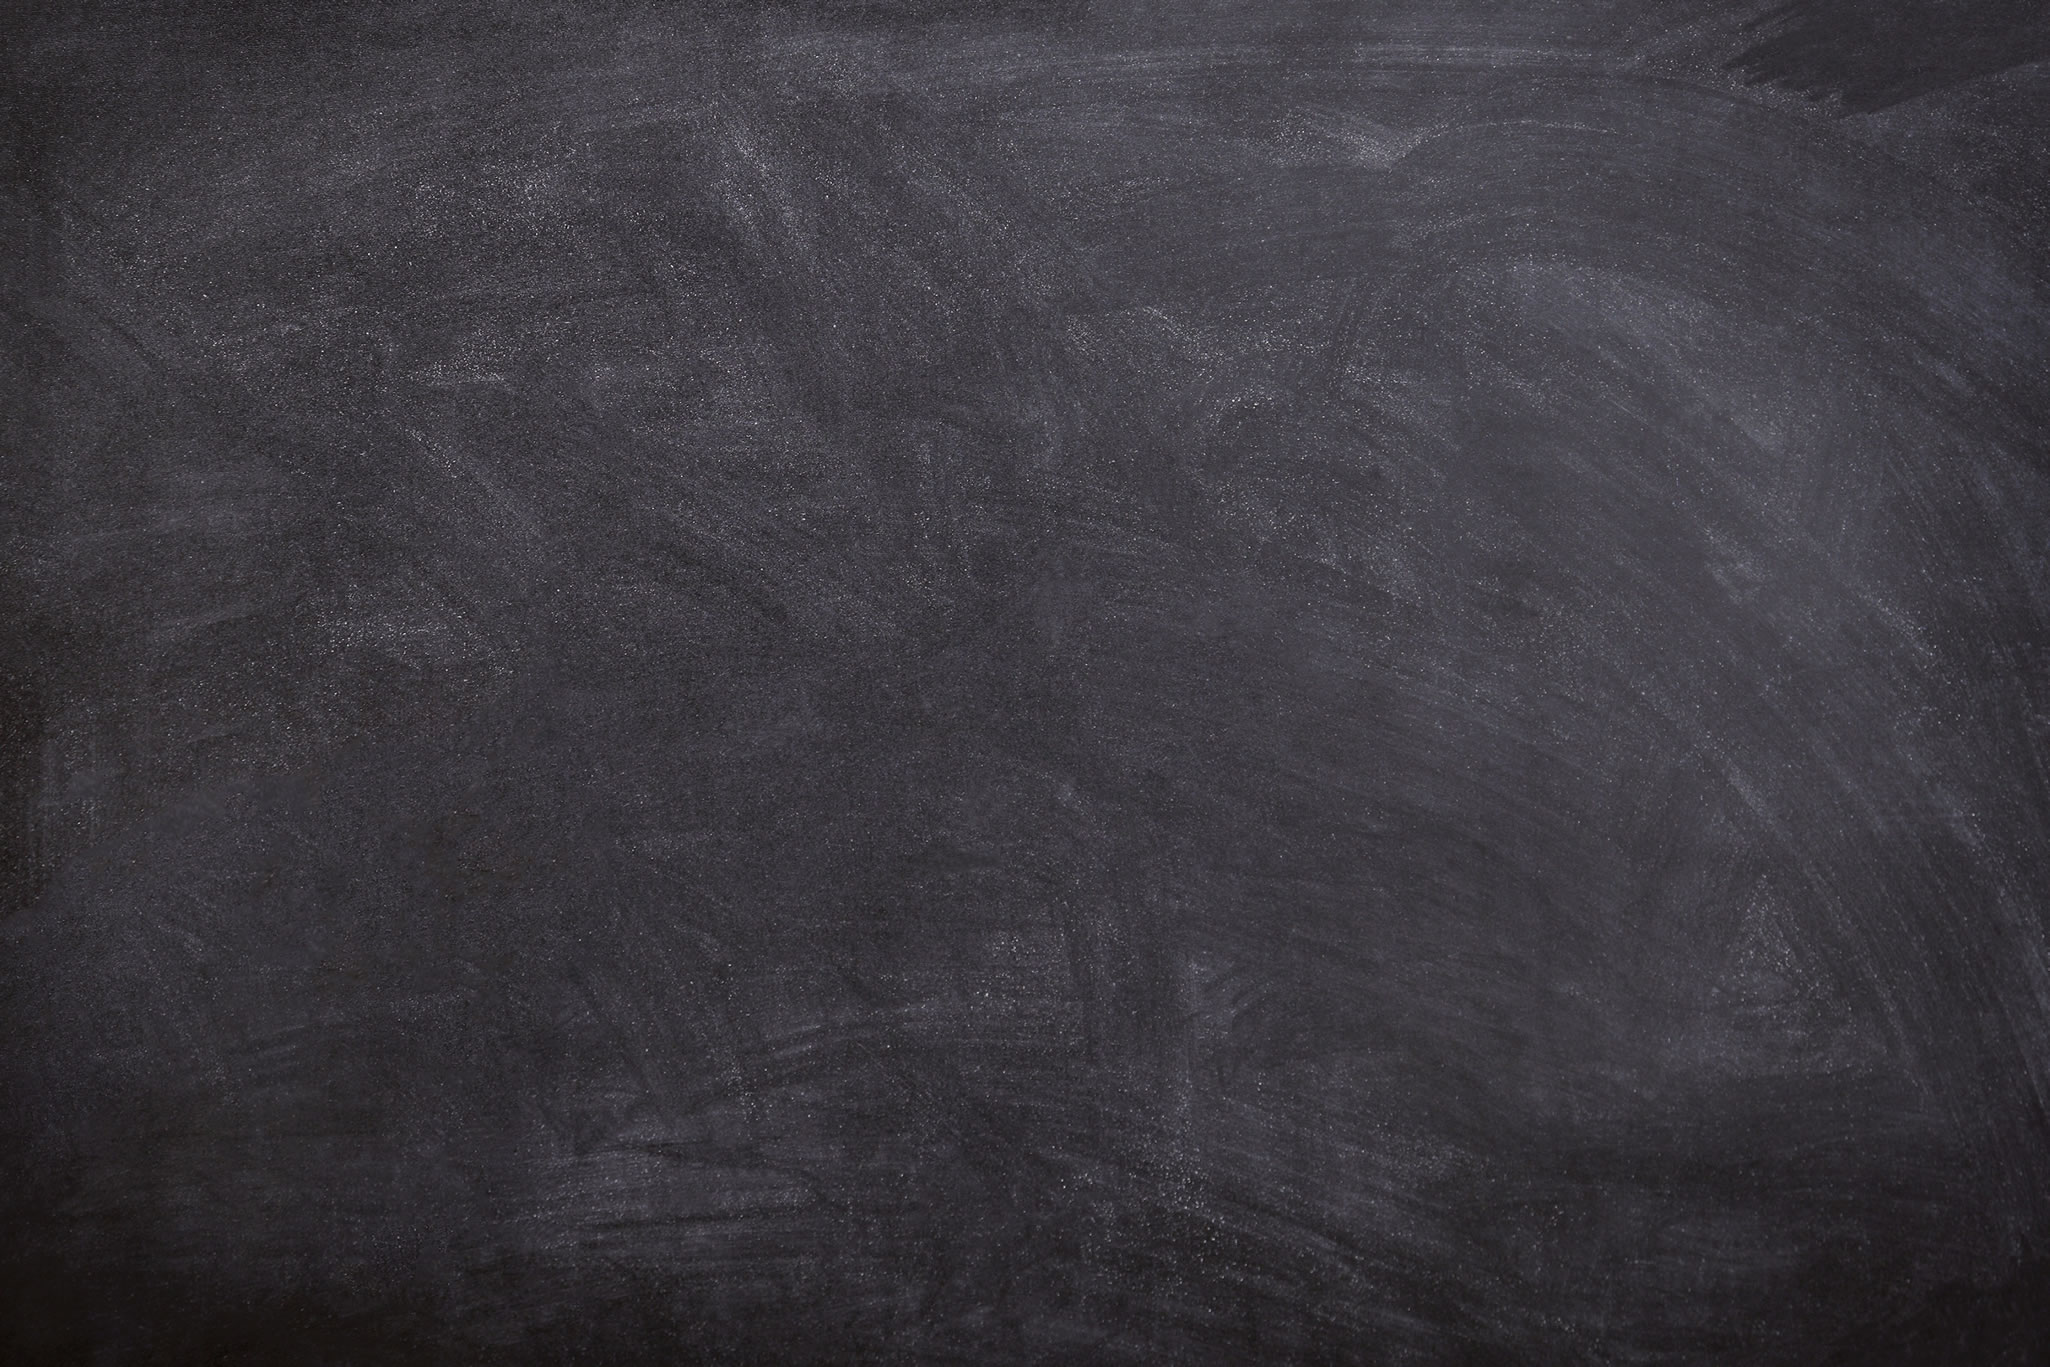
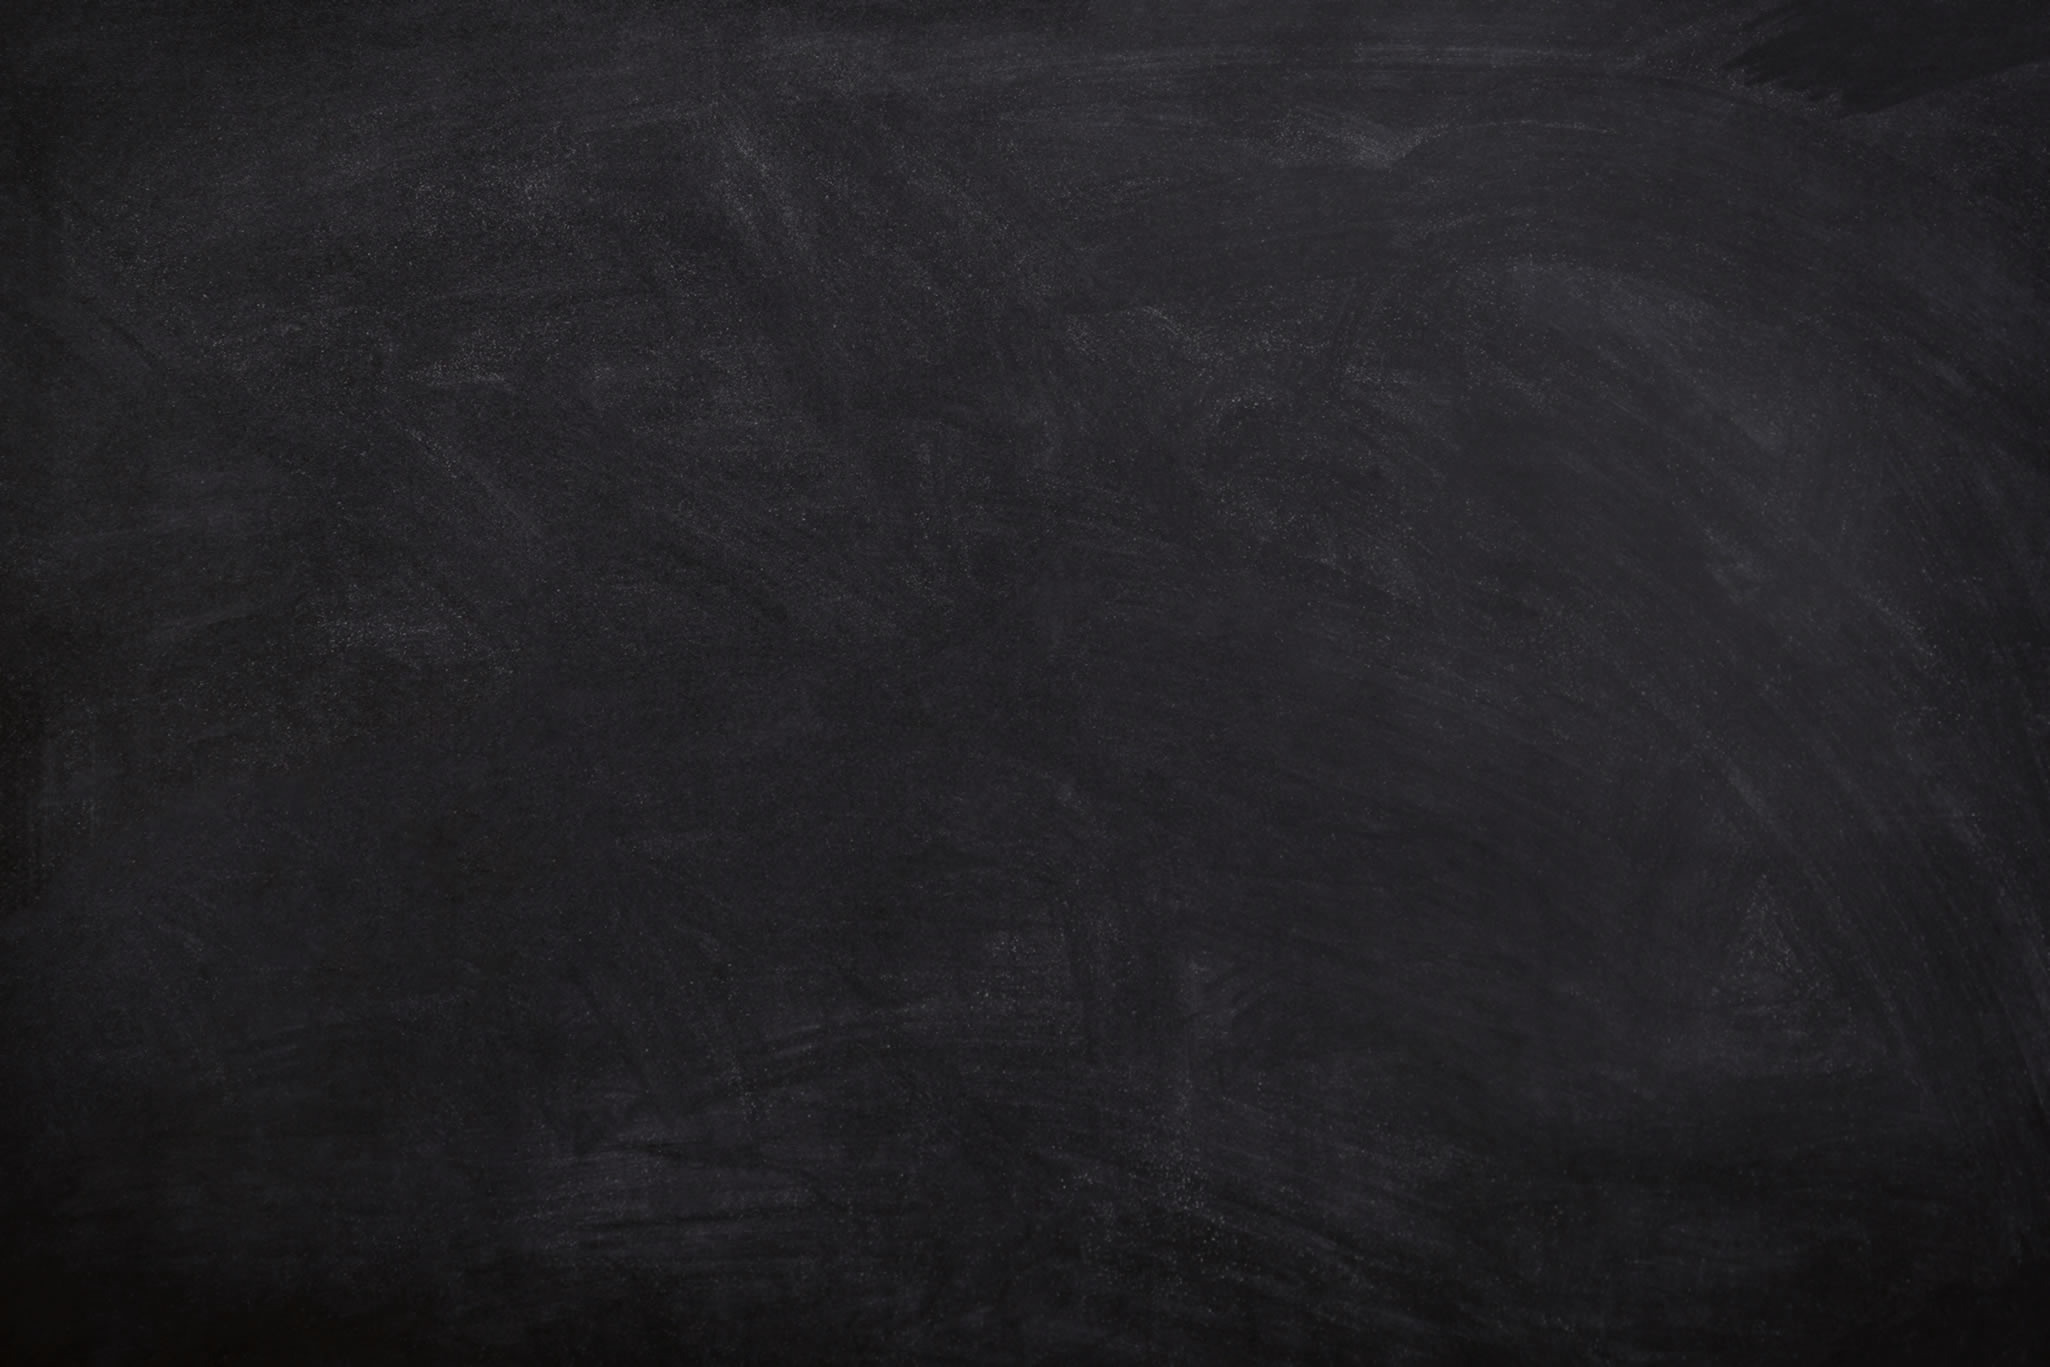
updated contact form

diff --git a/templates/index.html b/templates/index.html
@@ -403,6 +403,22 @@
 								<header>
 									<h2>Get in Touch</h2>
 								</header>
+								<p>
+									We'd love to hear from you with any questions or suggestions you may have. Here's how you can reach us.
+								</p>
+								<ul class="fa-ul">
+									<li>
+										<span class="fa-li"><i class="fas fa-fw fa-envelope"></i></span><a href="mailto:enquiries@example.com">enquiries@example.com</a>
+									</li>
+									<li>
+										<span class="fa-li"><i class="fas fa-fw fa-mobile-alt"></i></span><a href="tel:0123456789">012 345 6789</a>
+									</li>
+									<li><span class="fa-li"><i class="fas fa-fw fa-building"></i></span>Address Line 1<br />
+										Address Line 2<br />
+										Massachusetts<br />
+										12345 
+									</li>
+								</ul>
 							</article>
 						</div>
 						<div class="col-xs-12 col-sm-12 col-md-8 col-lg-8">
@@ -442,53 +458,67 @@
 	<script>
 		$(document).ready(function() {
 			$('form').submit(function (e) {
-				var url = "{{ url_for('submitForm') }}"; // send the form data here.
+				var url = "{{ url_for('submitForm') }}"; // url for form submission.
 				$.ajax({
-					type: "POST",
+					type: "POST", 
 					url: url,
 					data: $('form').serialize(), // serializes the form's elements.
+					// before sending, disable submit button and clear any existing error messages.
 					beforeSend: function() {
-						$('#submitContactForm').prop('disabled', true);
-						$('#status').addClass('hidden').text('');
-						$('.help-block').text('');
-						$('.form-group').removeClass('has-error');
+						$('#submitContactForm').prop('disabled', true); // disable the submit button.
+						$('#status').addClass('hidden').text(''); // hide the status box.
+						$('.help-block').text(''); // clear all help blocks of text.
+						$('.form-group').removeClass('has-error'); // remove error styles.
 					},
+
+					// if form is valid, display status message, then after 6 seconds, display confirmation.
 					success: function (data) {
+						// display message being sent status.
 						$('#status')
 							.addClass('alert alert-warning')
 							.removeClass('hidden')
 							.html('<i class="fas fa-spinner fa-pulse"></i> Your Message is being sent.');
 
+						// set a 6 second delay, then show success message.
 						setTimeout(function() {
 							$('#status')
 								.addClass('alert-success')
 								.removeClass('alert-warning')
 								.html('<i class="fas fa-check"></i> Your Message sent successfully');
+							
+							// enable submit button.
 							$('#submitContactForm').prop('disabled', false);
-							console.log(data)  // display the returned data in the console.
 						}, 6000);
 					},
+
+					// display any validation errors.
 					error: function(data) {
 						// get error messages.
 						var errors = data.responseJSON.data;
 						
 						// loop through errors and highlight fields.
 						for (var key in errors) {
-							// create names of labels and form control
-							var _label = '#' + key + '-status';
-							var _control = '#' + key;
+							// create names of labels and form control.
+							var _label = '#' + key + '-status'; // error message.
+							var _control = '#' + key; // form control.
 
-							// check 
+							// add error class to form controls parent.
 							$(_control).parent().addClass('has-error');
+
+							// check if error message has a property, and display.
 							if (errors.hasOwnProperty(key)) {
+								// display error message.
 								$(_label).text(errors[key]);
 							}
 						}
 
+						// enable the submit button.
 						$('#submitContactForm').prop('disabled', false);
 					}
 				});
-				e.preventDefault(); // block the traditional submission of the form.
+
+				// block the traditional submission of the form.
+				e.preventDefault();
 			});
 
 			// Inject our CSRF token into our AJAX request.

diff --git a/static/css/theme.css b/static/css/theme.css
@@ -36,6 +36,9 @@ a {
 	transition: all 0.3s ease-out;
 	text-decoration: none;
 }
+a:hover {
+	text-decoration: none;
+}
 p {
 	margin-bottom: 30px;
 }
@@ -76,40 +79,55 @@ p:last-child {
 /* Form Overrides */
 #contact .form-control {
 	background-color: transparent;
-	color: #fff;
+	color: #f3e8e5;
 	padding: 10px;
 	font-size: 18px;
 	line-height: 26px;
 	height: initial;
-	border: 1px dotted #fff;
+	border: 2px dotted #f3e8e5;
 }
 #contact .form-control:focus {
-	box-shadow: inset 0 1px 1px rgba(0, 0, 0, .075), 0 0 8px rgba(255, 255, 255, .6);
-	border: 1px solid #fff;
+	box-shadow: inset 0 1px 1px rgba(0, 0, 0, .075), 0 0 15px rgba(243, 232, 229, .6);
+	border: 2px solid #f3e8e5;
 }
 #contact .has-error .form-control {
-	border: 1px dotted #cb2027;
+	border: 2px dotted #db605d;
 }
 #contact .has-error .form-control:focus {
-	box-shadow: inset 0 1px 1px rgba(0, 0, 0, .075), 0 0 8px rgba(203, 32, 39, .6);
-	border: 1px solid #cb2027;
+	box-shadow: inset 0 1px 1px rgba(0, 0, 0, .075), 0 0 15px rgba(219, 96, 93, .6);
+	border: 2px solid #db605d;
 }
 #contact .has-error .control-label, #contact .has-error .help-block {
-	color: #cb2027;
+	color: #db605d;
+}
+#contact .btn-default {
+	background-color: transparent;
+	border: 2px dotted #f3e8e5;
+	color: #fff;
+	transition: 0.3s ease-in all;
+}
+#contact .btn-default:hover {
+	background-color: #f3e8e5;
+	color: #333;
+	transition: 0.3s ease-in all;
 }
 
 /* Footer */
-footer a { color: #777; }
+footer {
+	color: #f3e8e5;
+}
+footer a { 
+	color: #f3e8e5;
+}
+footer a:hover {
+	color: #58bb89;
+}
 .copyright {
 	padding: 20px 0;
-	color: #fff;
 	font-size: 14px;
 	font-weight: bold;
-	border-top: 1px dotted #fff;
+	border-top: 1px dotted #f3e8e5;
 	margin-top: 75px;
-}
-.copyright a {
-	color: #fff;
 }
 .copyright ul {
 	margin-bottom: 0;
@@ -120,6 +138,12 @@ footer a { color: #777; }
 }
 .copyright .list-inline li:last-child:after {
 	content: '';
+}
+.fa-ul > li {
+	margin-bottom: 20px; 
+}
+.fa-li {
+	color: #f8dd5d;
 }
 
 /* Chart Overrides */
@@ -143,9 +167,8 @@ footer a { color: #777; }
 /* Row Backgrounds */
 .header-bkg {
 	background-image: url(/static/images/massachusetts-state-house-bkg.jpg);
-	background-position: bottom center;
+	background-position: center center;
 	background-attachment: fixed;
-	background-size: cover;
 	background-repeat: no-repeat;
 	padding-top: 150px;
 	padding-bottom: 100px;
@@ -163,12 +186,12 @@ footer a { color: #777; }
 	background-image: url(/static/images/chalkboard-bkg.jpg);
 	background-position: center center;
 	background-attachment: scroll;
+	background-size: cover;
 	background-repeat: no-repeat;
 	padding-top: 75px;
-	color: #fff;
 }
 .chalkboard-bkg h2:after {
-	border-top: 1px dotted #fff;
+	border-top: 1px dotted #f3e8e5;;
 }
 
 /* Row Spacer */

diff --git a/templates/contact_form.html b/templates/contact_form.html
@@ -26,7 +26,7 @@
 			</div>
 			<div id="status"></div>
 			<div class="form-group form-spacer">
-				<input id="submitContactForm" type="submit" value="Send Enquiry" class="btn btn-default center-block">
+				<input id="submitContactForm" type="submit" value="Send Enquiry" class="btn btn-default btn-lg pull-right">
 			</div>
 		</div>
 	</div>

diff --git a/README.md b/README.md
@@ -22,7 +22,7 @@ Custom CSS was created to change the look and feel of the site.
 
 [jsSocials](http://js-socials.com) was used to generate the sharing links used page.
 
-The contact form at in the footer uses Flask-WTF forms and a JQuery Ajax to handle submission, all form validation is handled by the server, any validation errors are returned in a JSON object, looped through and JQuery is used to display the errors to the user. The form doesn't send any e-mails, but uses a setTimeout() function to simulate the effect.
+The contact form in the footer uses Flask-WTF to produce the form and a JQuery Ajax function to handle form submission, all form validation is handled by the server, any validation errors are returned in a JSON object, looped through and JQuery is used to display the errors to the user. The form doesn't send any e-mails, but uses a setTimeout() function to simulate the effect.
 
 ## Technologies Used
 
